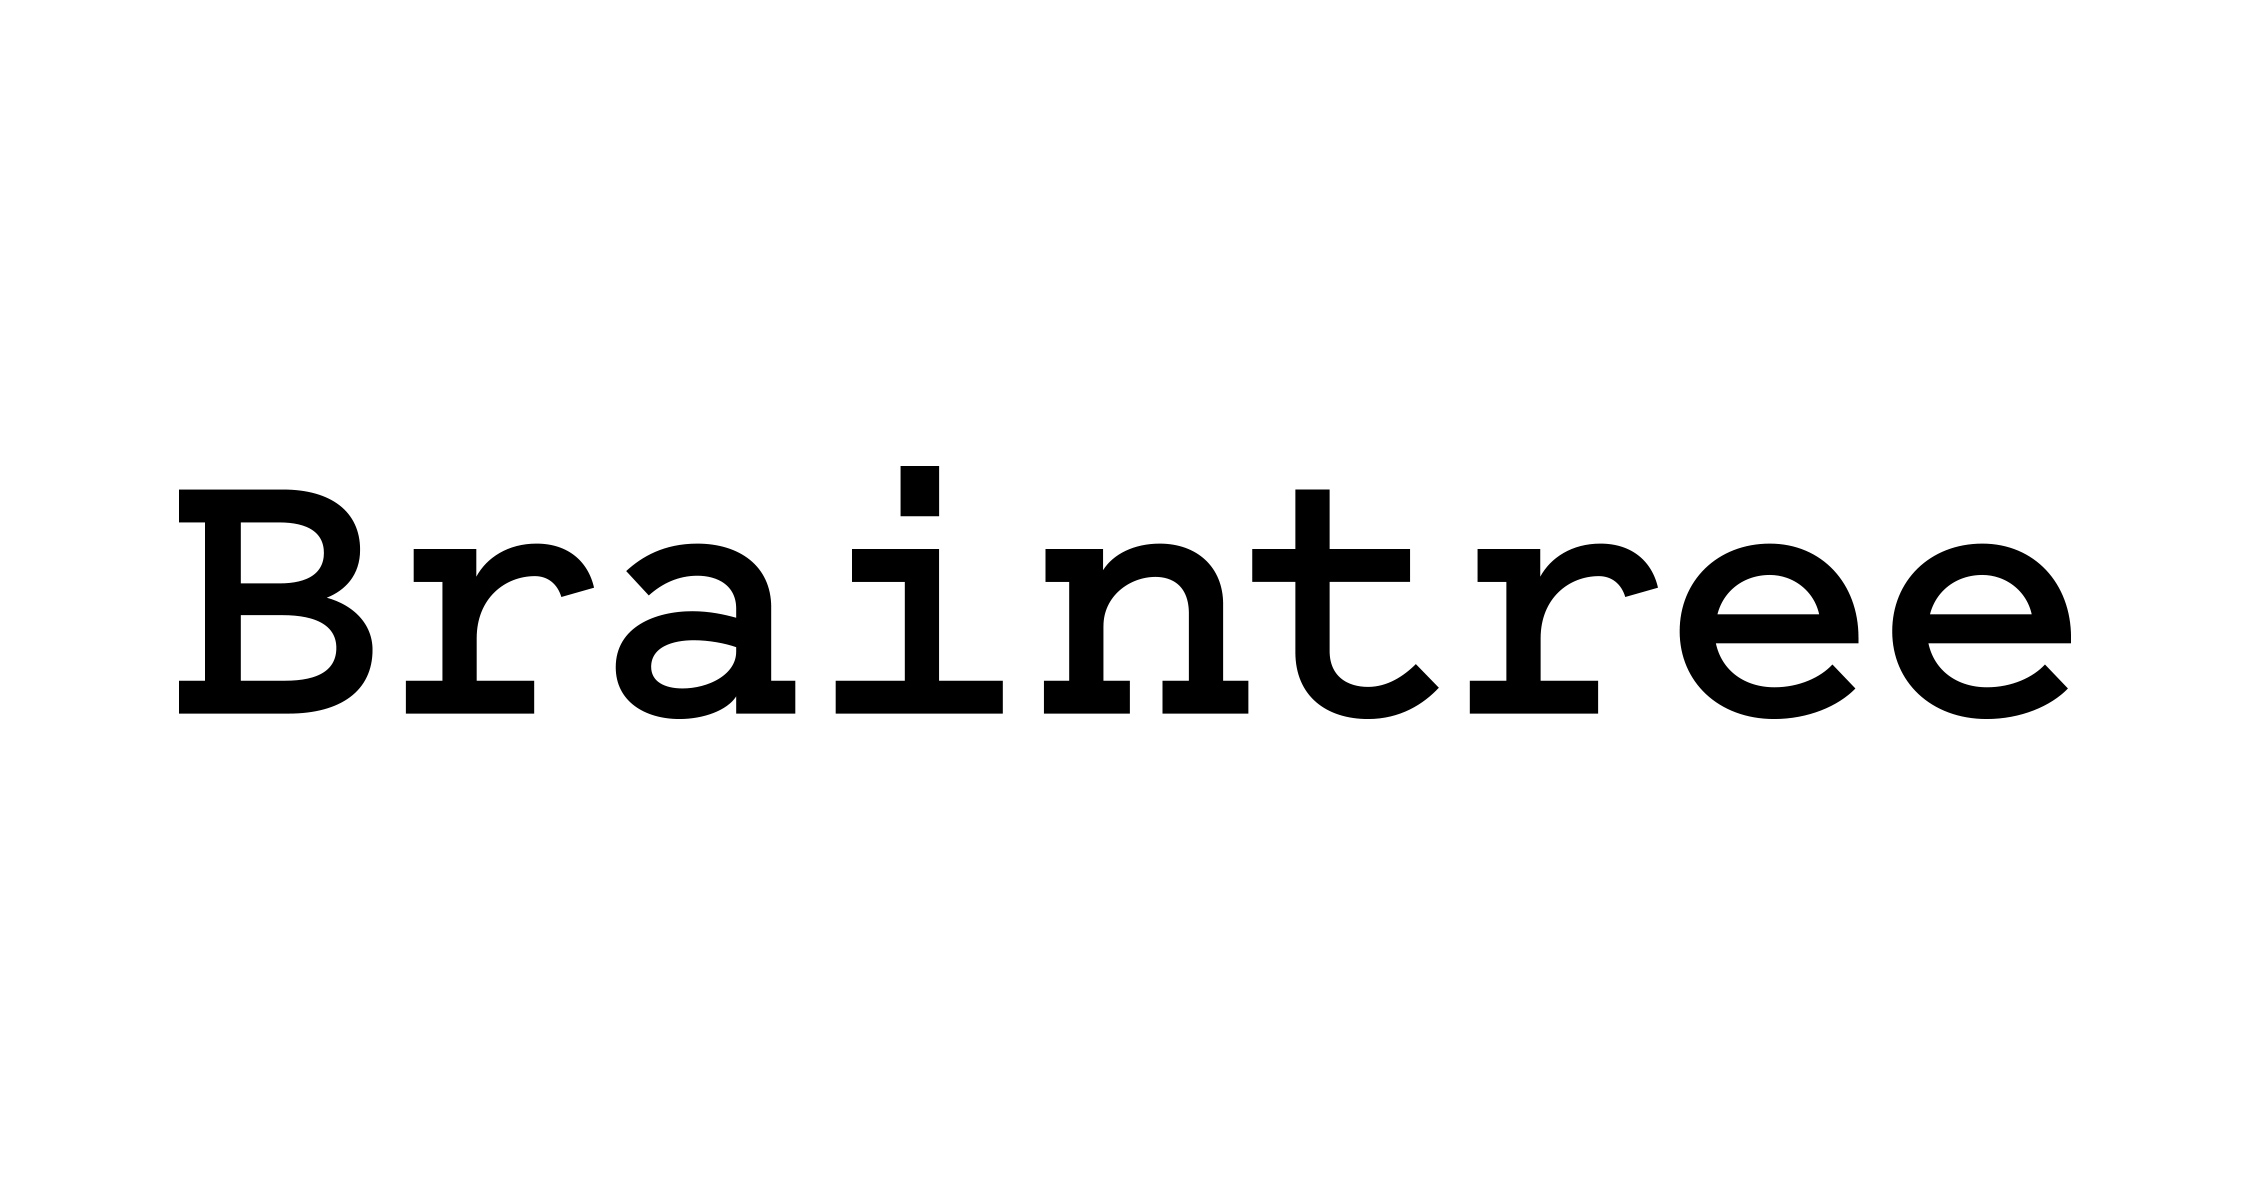
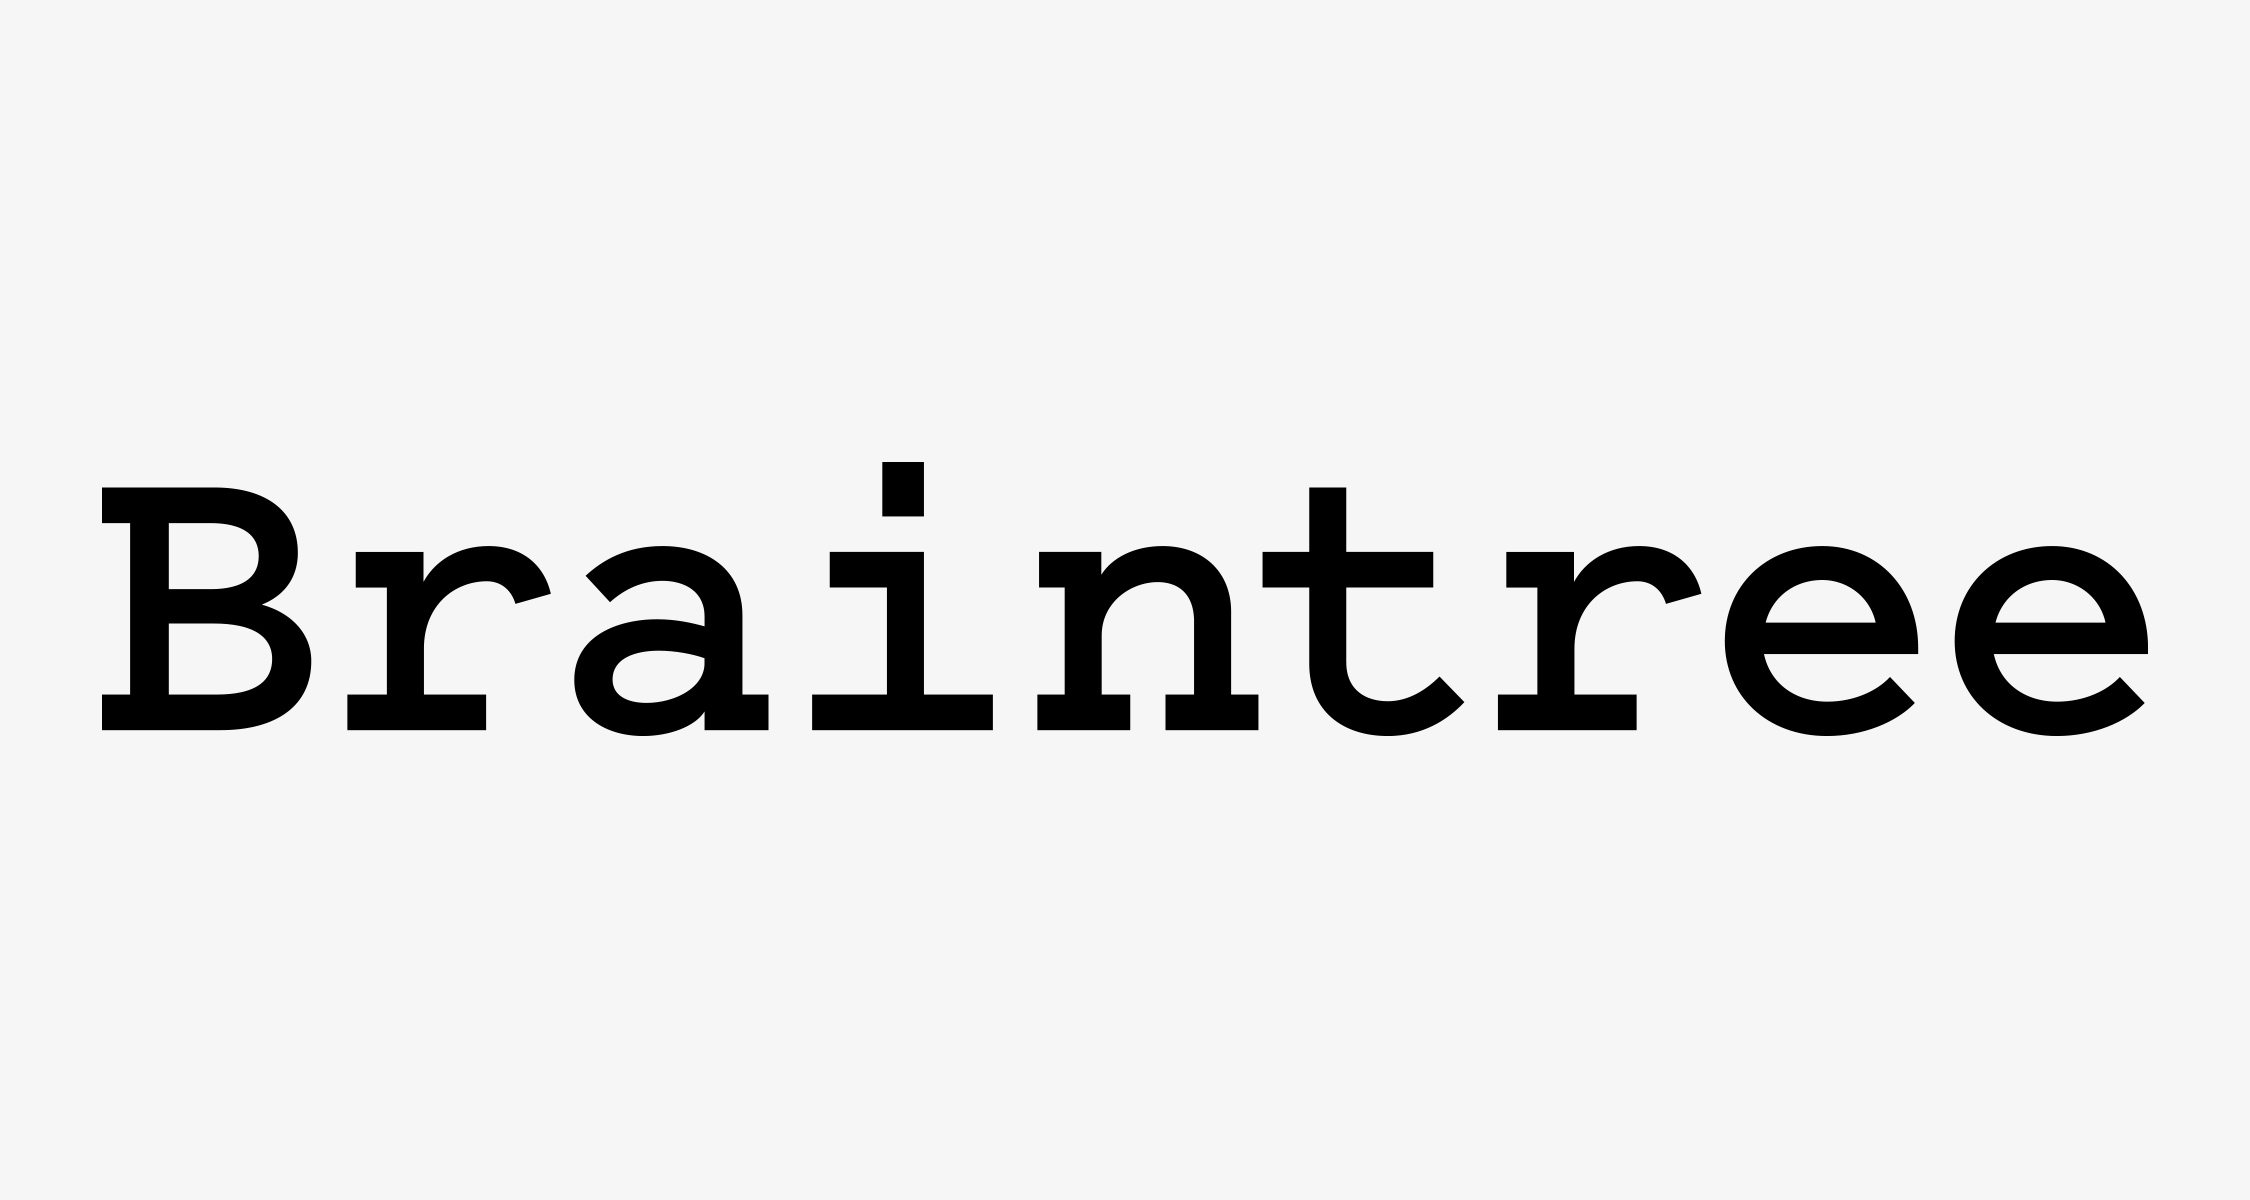
updated images & css
changed to courier new and increased spacing of type beneath image

Changed region(s): [[0.0311, 0.4008, 0.9644, 0.6167], [0.3733, 0.37, 0.4356, 0.4317]]

diff --git a/index.html b/index.html
@@ -46,7 +46,7 @@
     <link rel="apple-touch-icon" sizes="120x120" href="img/favicon/apple-icon-120x120.png">
     <link rel="apple-touch-icon" sizes="144x144" href="img/favicon/apple-icon-144x144.png">
     <link rel="apple-touch-icon" sizes="152x152" href="img/favicon/apple-icon-152x152.png">
-    <link rel="apple-touch-icon" sizes="180x180" href="img/favicon/apple-icon-180x180.png">
+    <link rel="apple-touch-icon" sizes="1100x1100" href="img/favicon/apple-icon-1100x1100.png">
     <link rel="icon" type="image/png" sizes="192x192" href="img/favicon/android-icon-192x192.png">
     <link rel="icon" type="image/png" sizes="32x32" href="img/favicon/favicon-32x32.png">
     <link rel="icon" type="image/png" sizes="96x96" href="img/favicon/favicon-96x96.png">
@@ -86,44 +86,44 @@
     <div class="container intro">
         <div class="intro-body">
             <div class="content">
-                <img src="img/Braintree_a.jpg" height="100%" width="80%">
-                <p>Braintree: Brand Identity design, Typeface design, Illustration, Brand Campaign and Advertising</p>
+                <img src="img/Braintree_a.jpg" height="100%" width="100%">
+                <p><b>Braintree:</b> Brand Identity design, Typeface design, Illustration, Brand Campaign and Advertising</p>
             </div>
             <div class="content">
-                <img src="img/harborside_a.jpg" height="100%" width="80%">
-                <p>Harborside: Brand Identity design, Typefrace design, Illustration, Retail Environments &amp; Packaging</p>
+                <img src="img/harborside_a.jpg" height="100%" width="100%">
+                <p><b>Harborside:</b> Brand Identity design, Typefrace design, Illustration, Retail Environments &amp; Packaging</p>
             </div>
             <div class="content">
-                <img src="img/twitter_a.jpg" height="100%" width="80%">
-                <p>Twitter: Logo Re-design</p>
+                <img src="img/twitter_a.jpg" height="100%" width="100%">
+                <p><b>Twitter:</b> Logo Re-design</p>
             </div>
             <div class="content">
-                <img src="img/flower_a.jpg" height="100%" width="80%">
-                <p>Illustration: Flowers with Jiyun Ha</p>
+                <img src="img/flower_a.jpg" height="100%" width="100%">
+                <p><b>Illustration:</b> Flowers with Jiyun Ha</p>
             </div>
             <div class="content">
-                <img src="img/camo_a.jpg" height="100%" width="80%">
-                <p>Upcoming!: Large scale installation graphics (release upcoming)</p>
+                <img src="img/camo_a.jpg" height="100%" width="100%">
+                <p><b>Upcoming!:</b> Large scale installation graphics (release upcoming)</p>
             </div>
             <div class="content">
-                <img src="img/kiva_a.jpg" height="100%" width="80%">
-                <p>Kiva: Logo Re-design, Brand Identity Designising</p>
+                <img src="img/kiva_a.jpg" height="100%" width="100%">
+                <p><b>Kiva:</b> Logo Re-design, Brand Identity Designising</p>
             </div>
             <div class="content">
-                <img src="img/drawing_a.jpg" height="100%" width="80%">
-                <p>Illustration: Portraits</p>
+                <img src="img/drawing_a.jpg" height="100%" width="100%">
+                <p><b>Illustration:</b> Portraits</p>
             </div>
             <div class="content">
-                <img src="img/rdio_a.jpg" height="100%" width="80%">
+                <img src="img/rdio_a.jpg" height="100%" width="100%">
             </div>
-            <p>RDIO: Brand Campaign, Advertising</p>
+            <p><b>RDIO:</b> Brand Campaign, Advertising</p>
         </div>
         <div class="content">
-            <img src="img/ANKI_a.jpg" height="100%" width="80%">
+            <img src="img/ANKI_a.jpg" height="100%" width="100%">
             <p>Anki: Brand Identity design, Typefrace design, Illustration, Retail Environments & Packaging</p>
         </div>
         <div class="content">
-            <img src="img/Opticon_a.jpg" height="100%" width="80%">
+            <img src="img/Opticon_a.jpg" height="100%" width="100%">
             <p>Optimizely: Conference Brand Identity & Graphics</p>
         </div>
     </div>

diff --git a/css/main.css b/css/main.css
@@ -1,10 +1,16 @@
 html, body {
-    font-family: GroteMT;
+    font-family:  courier new;
+
     /*font-family: MyriadPro;*/
 }
 
 .content {
     margin-bottom: 20px;
+
+}
+
+p {
+	padding-top: 10px;
 }
 
 header {
